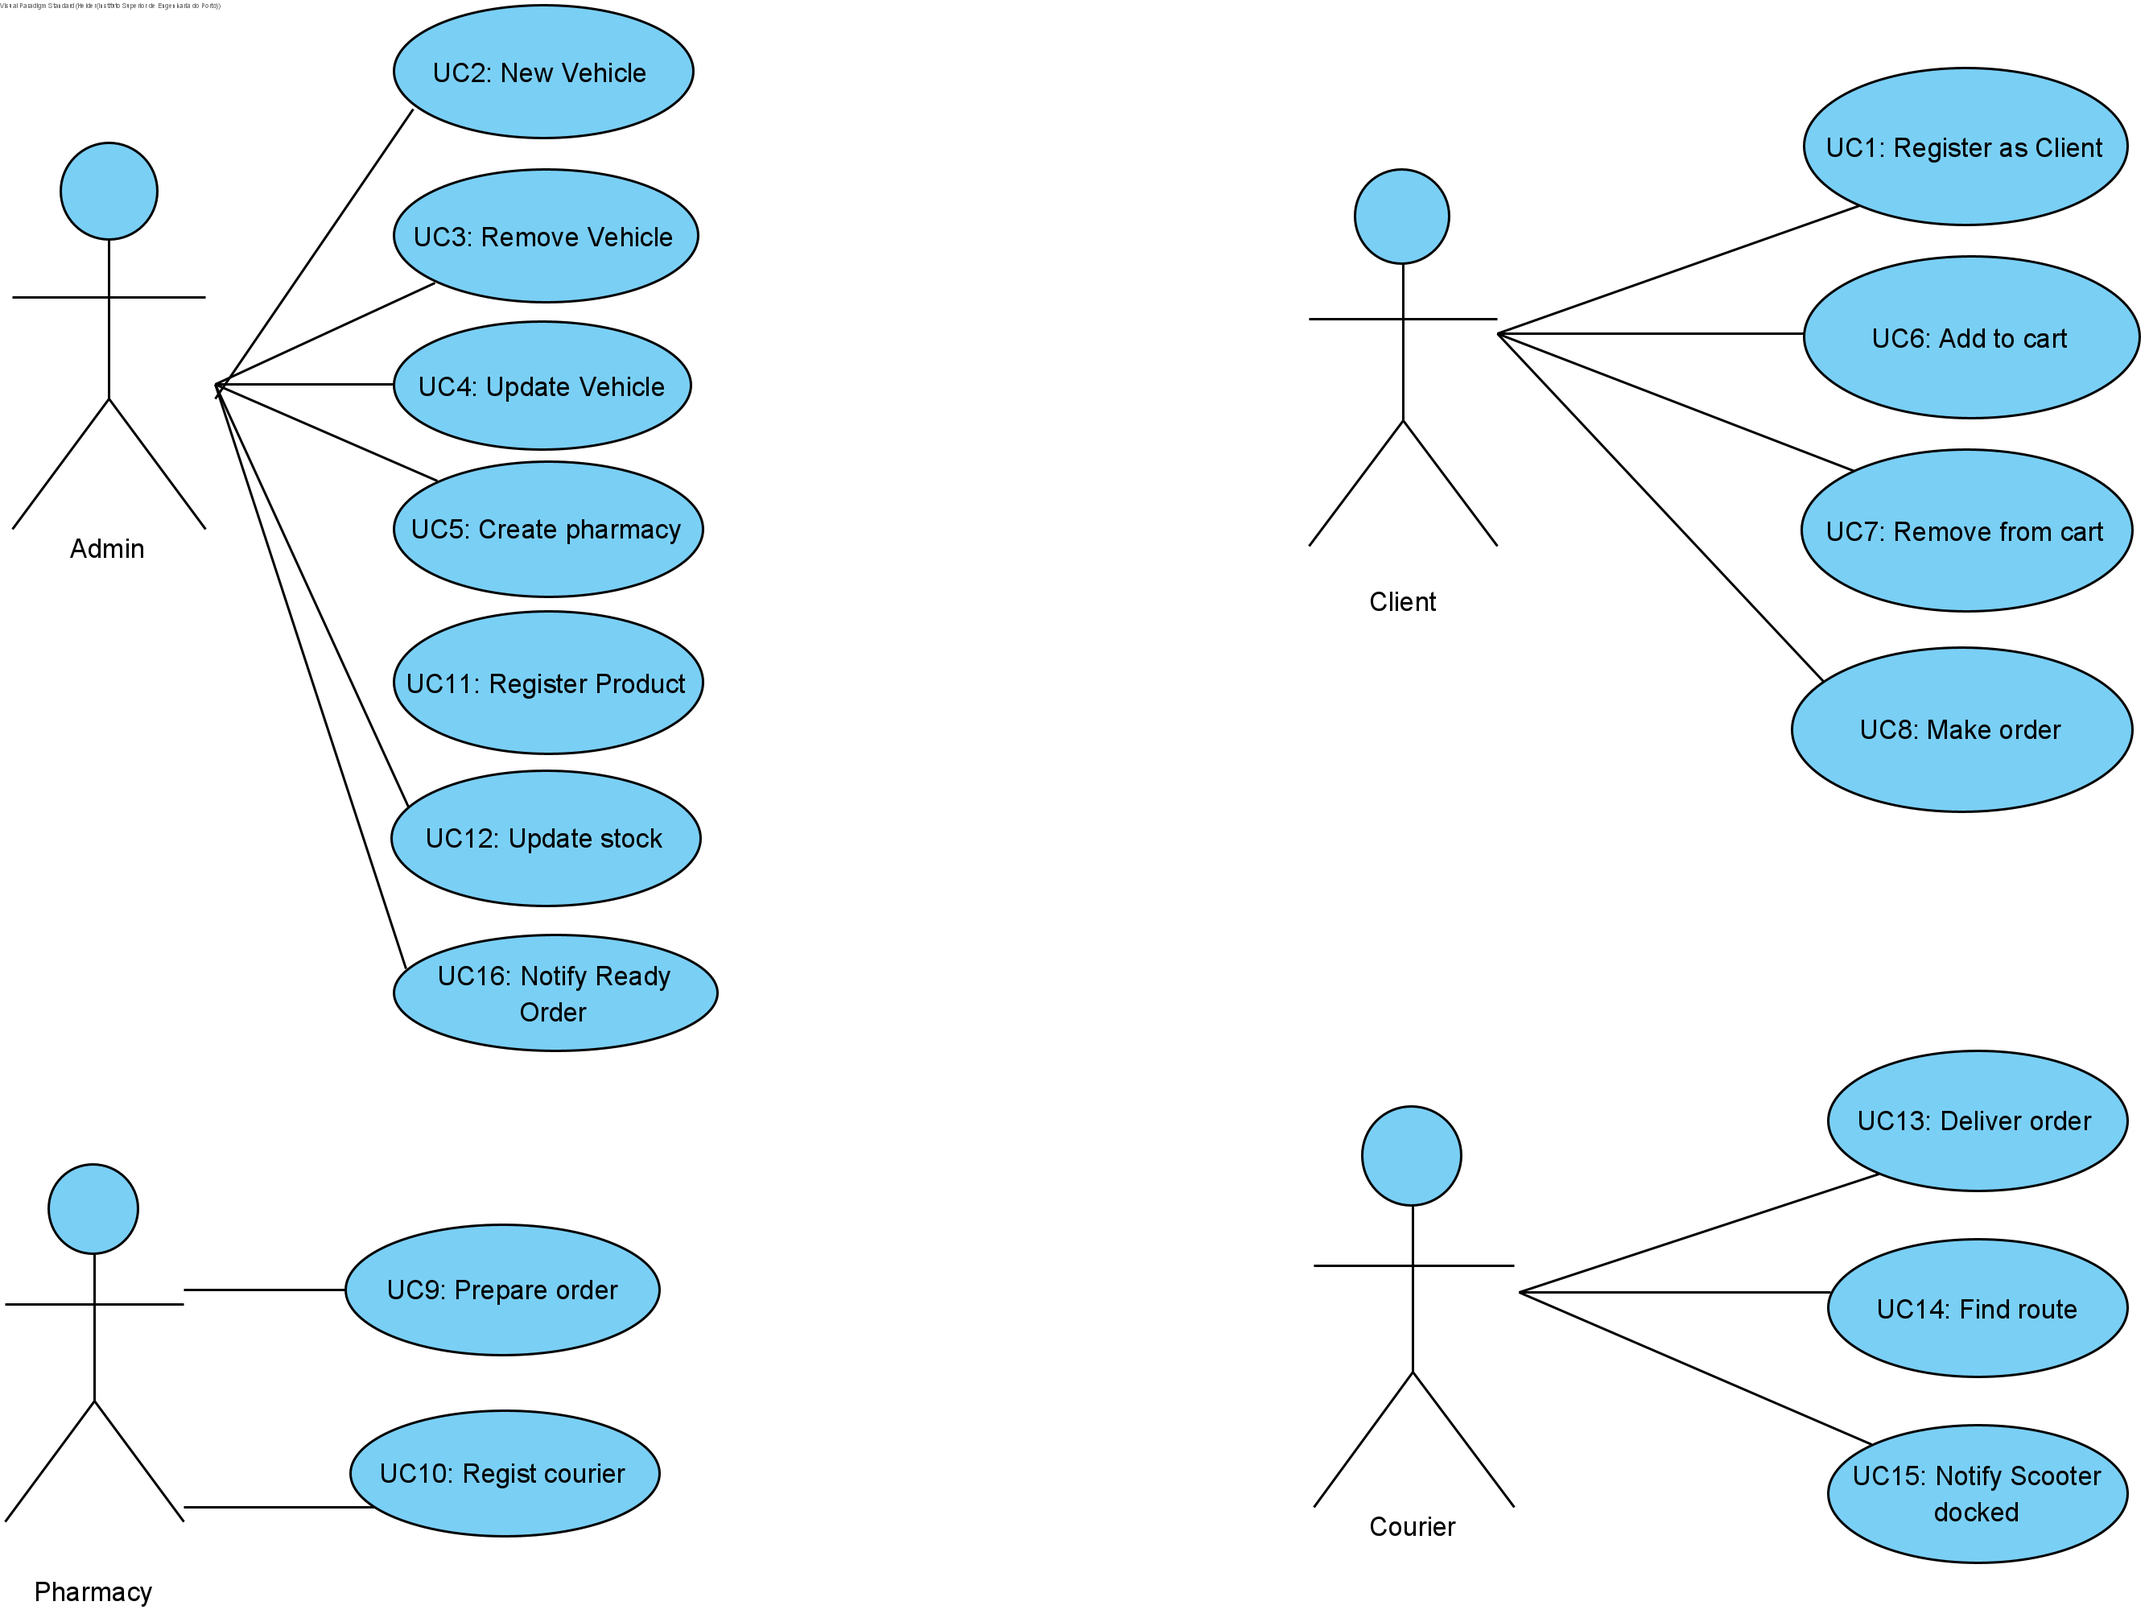
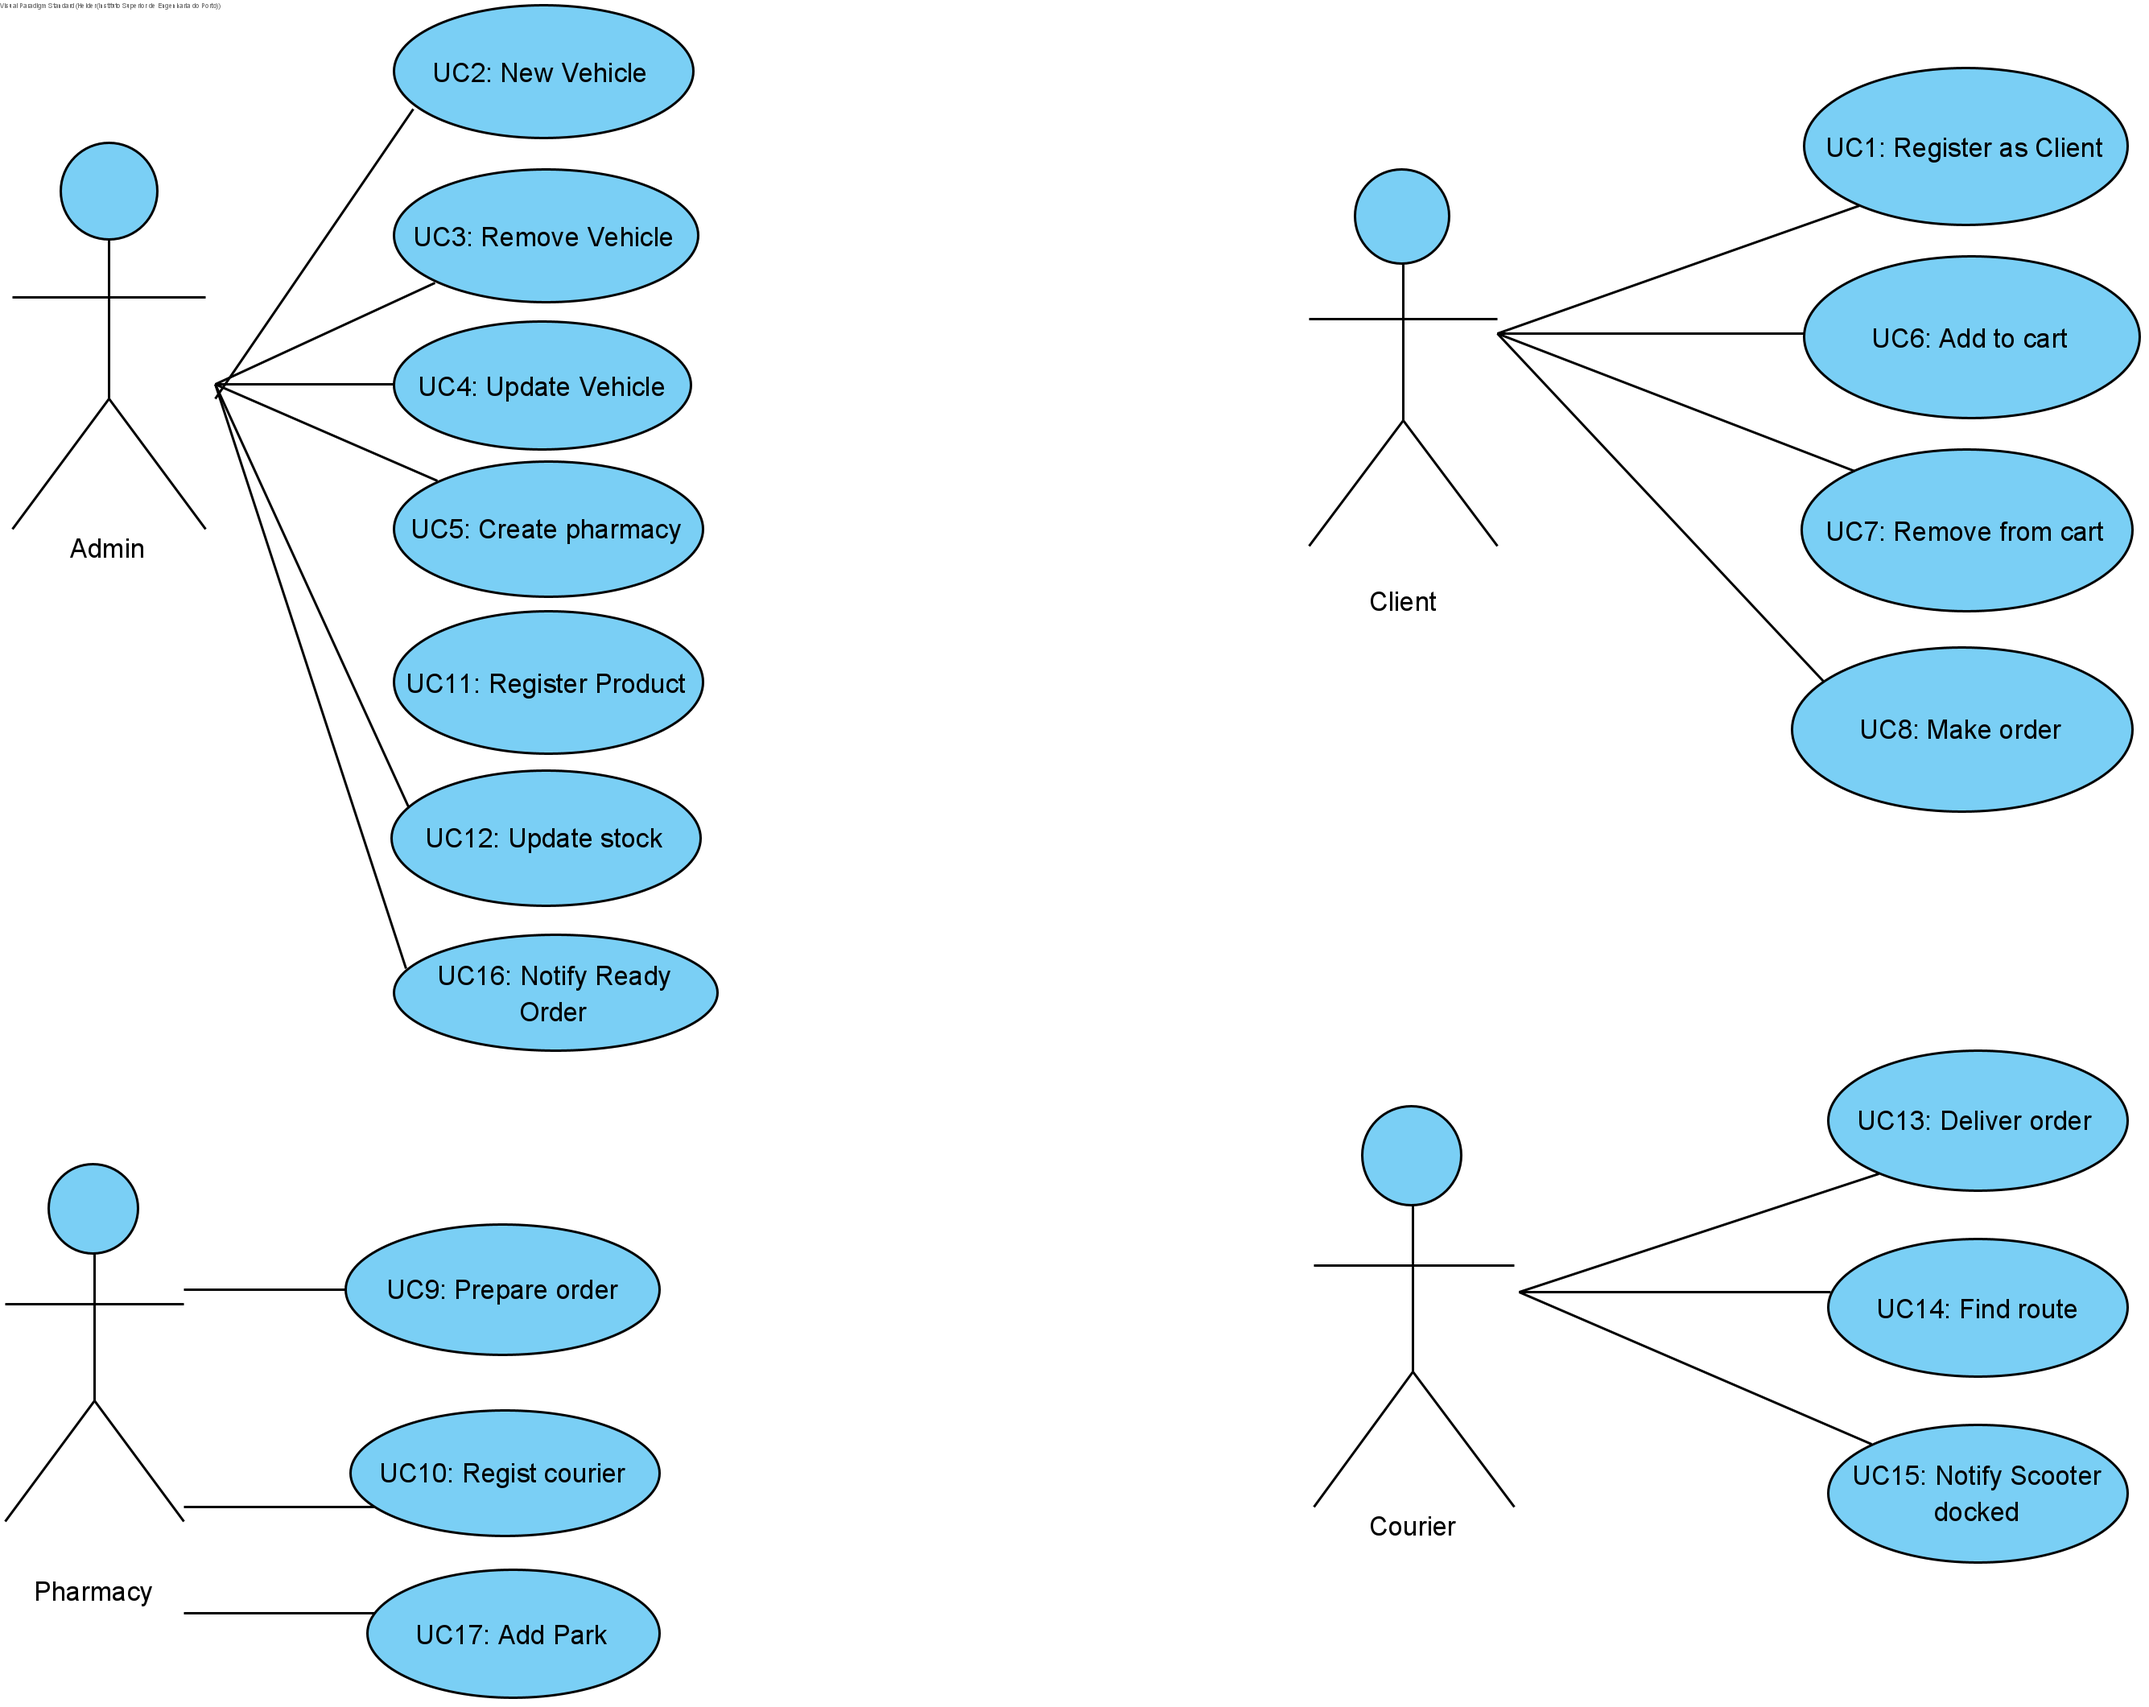
MEN09-249 # close Add Park [Analysis]

diff --git a/documentation/use_cases/UC17/UC17_AddPark.md b/documentation/use_cases/UC17/UC17_AddPark.md
@@ -1,0 +1,32 @@
+# UC17 - Add Park
+
+## 1. Requirements Engineering
+The pharmacy starts adding parks. The system asks the park ID to add. The pharmacy selects the park ID. The system informs the succes of the operation.
+
+## SSD
+![UC17_SSD.png](UC17_SSD.png)
+
+#### Main Actor
+
+Pharmacy
+
+#### Stakeholders and their interests
+* **Pharmacy:** wants to have parks to their pharmacy.
+* **Courier:** wants to docks the scooter in the park	.
+
+#### Pre Conditions
+The park should be "created".
+
+## 2. Engineering Design
+
+## Sequence Diagram
+![UC17_SD.png](UC17_SD.png)
+
+
+
+## Class Diagram
+![UC17_CD.png](UC17_CD.png)
+
+____
+
+[Back to Use Cases](../UseCases.md)

diff --git a/documentation/use_cases/use_cases.md b/documentation/use_cases/use_cases.md
@@ -23,6 +23,7 @@ A use case diagram was developed to understand the responsible actor or actors f
 | UC14 | [Find Route](UC14/UC14_FindRoute.md) |
 | UC15 | [Notify Scooter Docked](UC15/UC15_NotifyScooterDocked.md) |
 | UC16 | [Notify Order Ready](UC16/UC16_OrderReady.md) |
+| UC17 | [Add Park](UC16/UC16_AddPark.md) |
 ---
 
 [Back](../Documentation.md)
